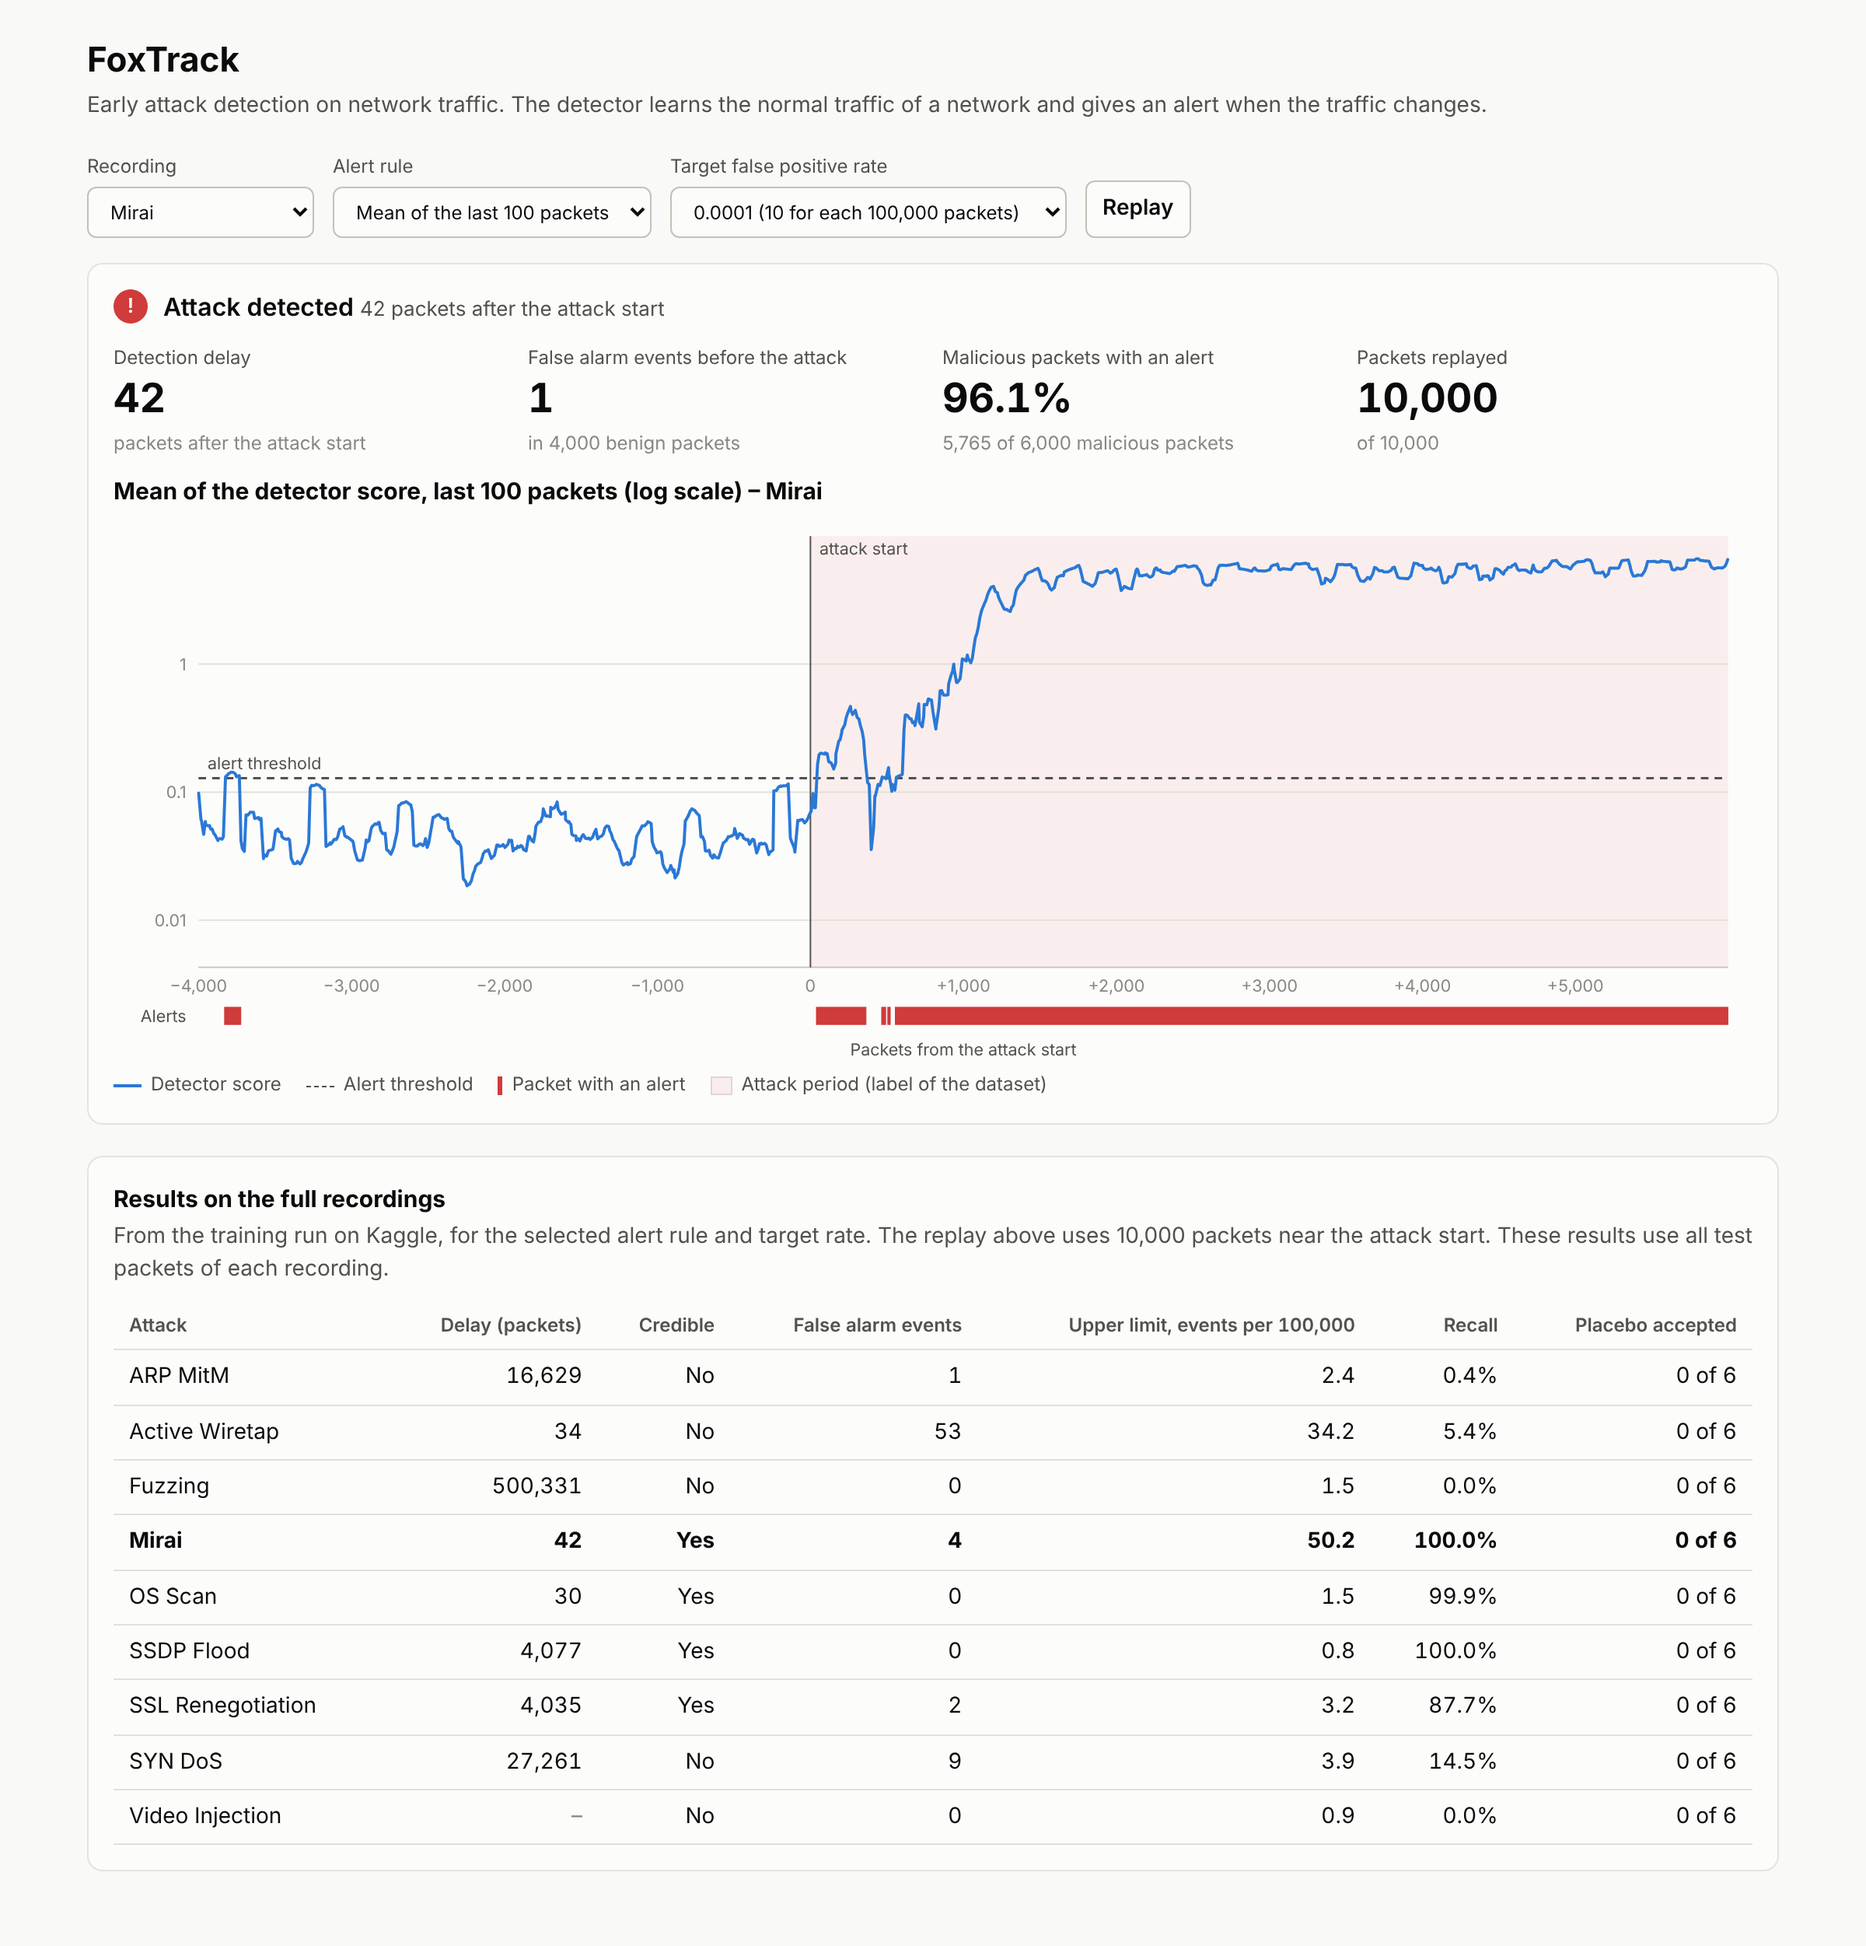
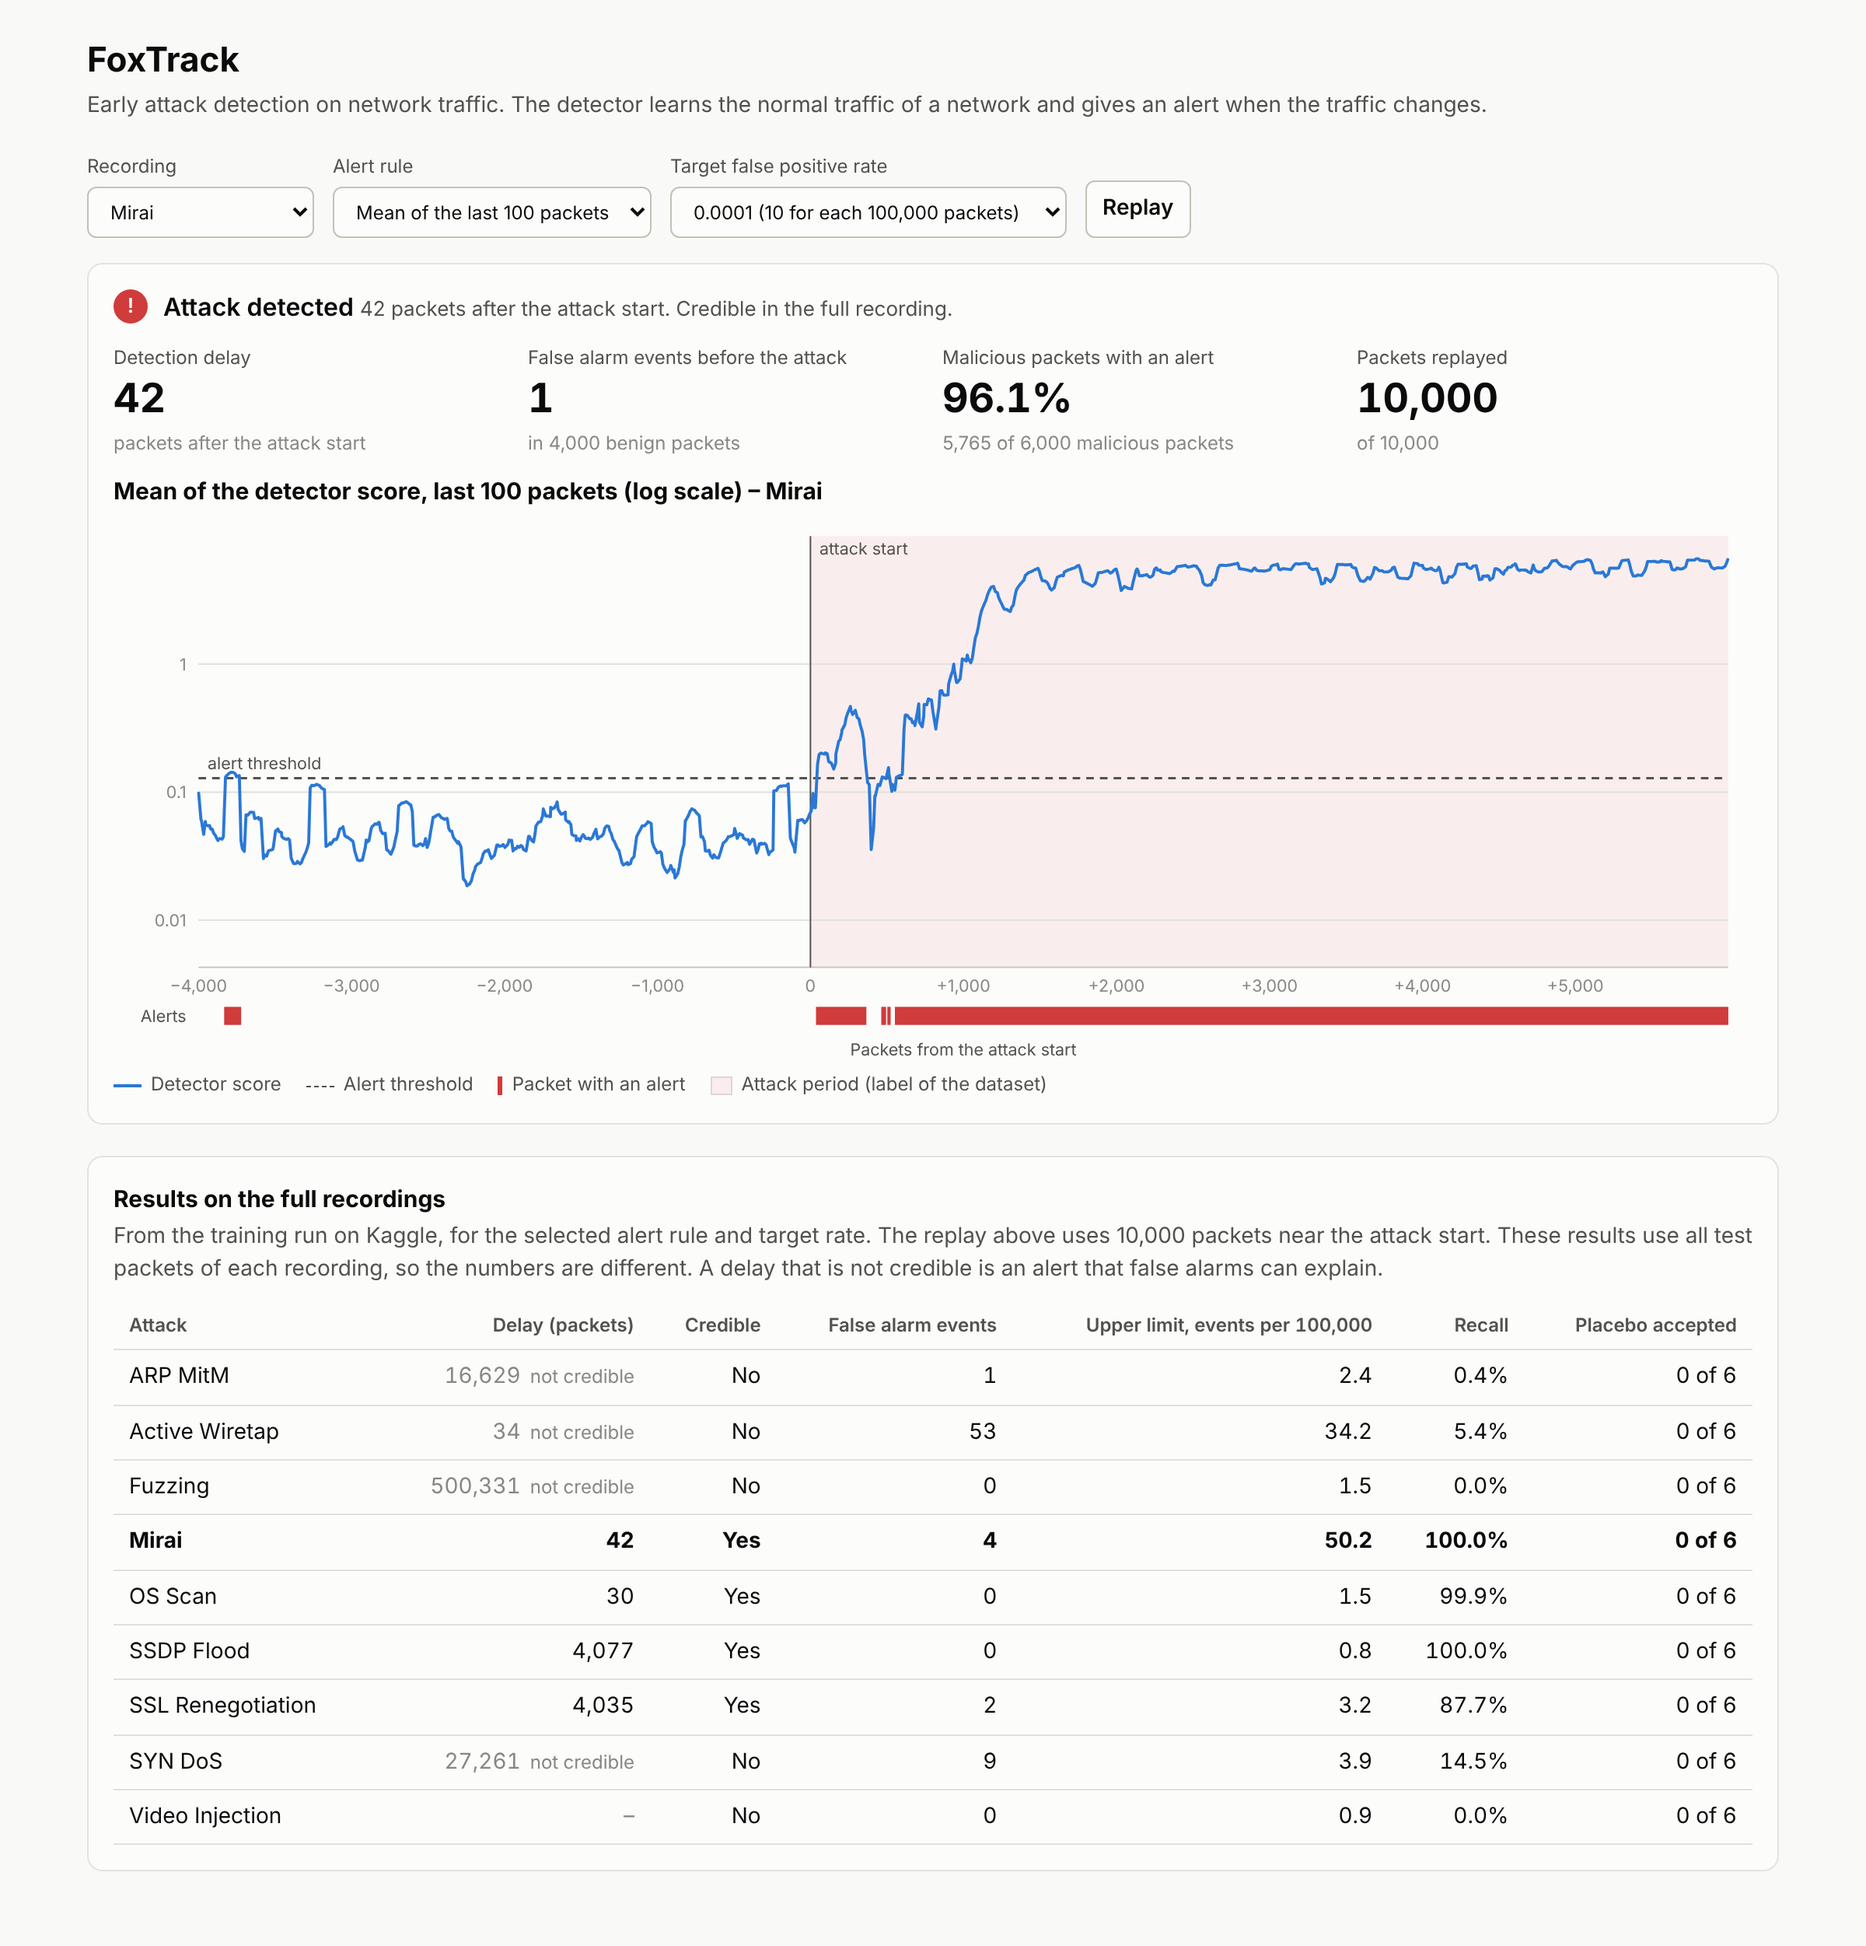
Show the credibility result in the dashboard status line and table
The status line now uses the credibility check of the full recording:
an alert that false alarms can explain is not shown as a detection, and
an attack with no alert no longer gets a green mark. The table shows a
delay that is not credible in grey. Update the screenshots.

diff --git a/src/foxtrack/api/static/index.html b/src/foxtrack/api/static/index.html
@@ -8,13 +8,13 @@
   :root {
     --page: #f9f9f7; --surface: #fcfcfb; --ink: #0b0b0b; --ink-2: #52514e; --muted: #898781;
     --grid: #e1e0d9; --axis: #c3c2b7; --border: rgba(11,11,11,0.10);
-    --series: #2a78d6; --critical: #d03b3b; --good: #0ca30c; --good-text: #006300; --attack-band: rgba(208,59,59,0.07);
+    --series: #2a78d6; --critical: #d03b3b; --warning: #fab219; --good: #0ca30c; --good-text: #006300; --attack-band: rgba(208,59,59,0.07);
   }
   @media (prefers-color-scheme: dark) {
     :root {
       --page: #0d0d0d; --surface: #1a1a19; --ink: #f0efec; --ink-2: #c3c2b7; --muted: #898781;
       --grid: #2c2c2a; --axis: #383835; --border: rgba(255,255,255,0.10);
-      --series: #3987e5; --critical: #d03b3b; --good: #0ca30c; --good-text: #0ca30c; --attack-band: rgba(208,59,59,0.13);
+      --series: #3987e5; --critical: #d03b3b; --warning: #fab219; --good: #0ca30c; --good-text: #0ca30c; --attack-band: rgba(208,59,59,0.13);
     }
   }
   * { box-sizing: border-box; }
@@ -33,6 +33,7 @@
   .status { display: flex; align-items: center; gap: 10px; font-weight: 600; font-size: 16px; margin-bottom: 12px; }
   .status .icon { width: 22px; height: 22px; border-radius: 50%; display: grid; place-items: center; color: #fff; font-size: 13px; background: var(--good); flex: none; }
   .status.alert .icon { background: var(--critical); }
+  .status.unsure .icon { background: var(--warning); color: #0b0b0b; }
   .status small { font-weight: 400; color: var(--ink-2); font-size: 13px; }
   .tiles { display: grid; grid-template-columns: repeat(auto-fit, minmax(180px, 1fr)); gap: 12px; margin-bottom: 12px; }
   .tile .value { font-size: 26px; font-weight: 650; font-variant-numeric: tabular-nums; }
@@ -53,6 +54,7 @@
   th { color: var(--ink-2); font-weight: 600; font-size: 12px; }
   tr.current td { font-weight: 650; }
   .muted { color: var(--muted); }
+  td .tag { color: var(--muted); font-weight: 400; font-size: 12px; margin-left: 6px; }
   .section { margin-top: 20px; }
   .error { color: var(--critical); font-weight: 600; }
 </style>
@@ -94,7 +96,7 @@
 
   <div class="section card">
     <h2>Results on the full recordings</h2>
-    <p class="sub" style="margin-bottom:10px">From the training run on Kaggle, for the selected alert rule and target rate. The replay above uses 10,000 packets near the attack start. These results use all test packets of each recording.</p>
+    <p class="sub" style="margin-bottom:10px">From the training run on Kaggle, for the selected alert rule and target rate. The replay above uses 10,000 packets near the attack start. These results use all test packets of each recording, so the numbers are different. A delay that is not credible is an alert that false alarms can explain.</p>
     <div class="tablewrap"><table id="results"><thead></thead><tbody></tbody></table></div>
   </div>
 </main>
@@ -162,6 +164,7 @@ async function load() {
     }
     demo.malAt = new Int32Array(demo.values.length); let mal = 0, hit = 0; demo.hitAt = new Int32Array(demo.values.length);
     for (let i = 0; i < demo.values.length; i++) { if (demo.labels[i]) { mal++; if (demo.alerts[i]) hit++; } demo.malAt[i] = mal; demo.hitAt[i] = hit; }
+    demo.full = rows.find((r) => r.attack === demo.model) || null;
     shown = demo.values.length;
     $("chartTitle").textContent = (demo.smooth ? "Mean of the detector score, last 100 packets" : "Detector score for each packet") + " (log scale) – " + demo.title;
     draw(); tiles(); table(rows);
@@ -219,16 +222,34 @@ function tiles() {
   const a = demo.attack_start, i = Math.max(0, shown - 1), full = shown === demo.values.length;
   const detectedAt = demo.firstAlertAfter >= 0 && demo.firstAlertAfter < shown ? demo.firstAlertAfter : -1;
   const status = $("status"), icon = status.querySelector(".icon");
+  // The replay has few packets. The credibility check of the full recording decides the wording.
+  const credible = demo.full ? demo.full.delay_credible === true : null;
   if (detectedAt >= 0) {
-    status.className = "status alert"; icon.textContent = "!";
-    $("statusText").innerHTML = "";
-    $("statusText").append("Attack detected ", Object.assign(document.createElement("small"), { textContent: fmt(detectedAt - a) + " packets after the attack start" }));
-  } else {
+    const after = fmt(detectedAt - a) + " packets after the attack start";
+    $("statusText").replaceChildren();
+    if (credible === false) {
+      status.className = "status unsure"; icon.textContent = "?";
+      $("statusText").append("Alert, but not a credible detection ", Object.assign(document.createElement("small"),
+        { textContent: after + ". In the full recording, false alarms can explain this alert." }));
+    } else {
+      status.className = "status alert"; icon.textContent = "!";
+      $("statusText").append("Attack detected ", Object.assign(document.createElement("small"),
+        { textContent: after + (credible ? ". Credible in the full recording." : "") }));
+    }
+  } else if (shown <= a) {
     status.className = "status"; icon.textContent = "✓";
-    $("statusText").textContent = shown <= a ? "Normal traffic" : (full ? "No alert after the attack start" : "Attack in progress, no alert yet");
+    $("statusText").textContent = "Normal traffic";
+  } else {
+    // The attack is in progress and the detector gives no alert. A green mark would be wrong here.
+    status.className = "status unsure"; icon.textContent = "?";
+    $("statusText").replaceChildren(full ? "Attack not detected " : "Attack in progress, no alert yet ");
+    if (full) $("statusText").append(Object.assign(document.createElement("small"),
+      { textContent: "No alert in " + fmt(shown - a) + " packets after the attack start." }));
   }
   $("tDelay").textContent = detectedAt >= 0 ? fmt(detectedAt - a) : "–";
-  $("tDelayNote").textContent = detectedAt >= 0 ? "packets after the attack start" : (full ? "not detected in this replay" : "");
+  $("tDelayNote").textContent = detectedAt >= 0
+    ? "packets after the attack start" + (credible === false ? " (not credible)" : "")
+    : (full ? "not detected in this replay" : "");
   $("tEvents").textContent = fmt(demo.eventsAt[Math.min(i, a - 1)]);
   $("tEventsNote").textContent = "in " + fmt(Math.min(shown, a)) + " benign packets";
   const mal = demo.malAt[i], hit = demo.hitAt[i];
@@ -250,6 +271,10 @@ function table(rows) {
       const td = document.createElement("td"); const v = r[key];
       if (v === null || v === undefined) { td.textContent = "–"; td.className = "muted"; }
       else if (key === "delay_credible") td.textContent = v ? "Yes" : "No";
+      else if (key === "delay_packets" && r.delay_credible !== true) {
+        td.className = "muted"; td.textContent = fmt(v);
+        td.append(Object.assign(document.createElement("span"), { className: "tag", textContent: "not credible" }));
+      }
       else if (key === "packet_recall") td.textContent = (100 * v).toFixed(1) + "%";
       else if (key === "false_alarm_events_per_100k_upper95") td.textContent = v.toFixed(1);
       else if (key === "placebo_credible") td.textContent = v + " of " + (r.placebo_starts ?? 6);
